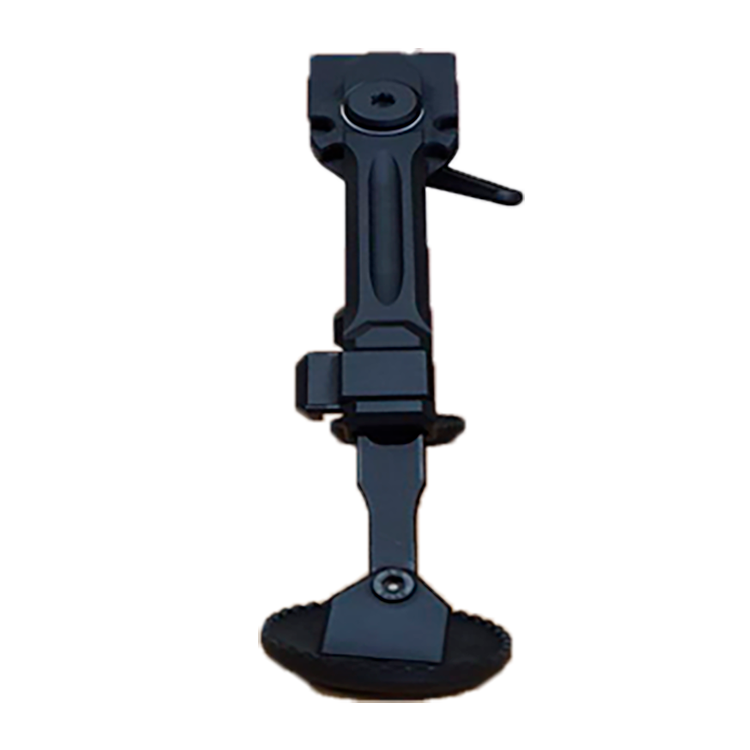
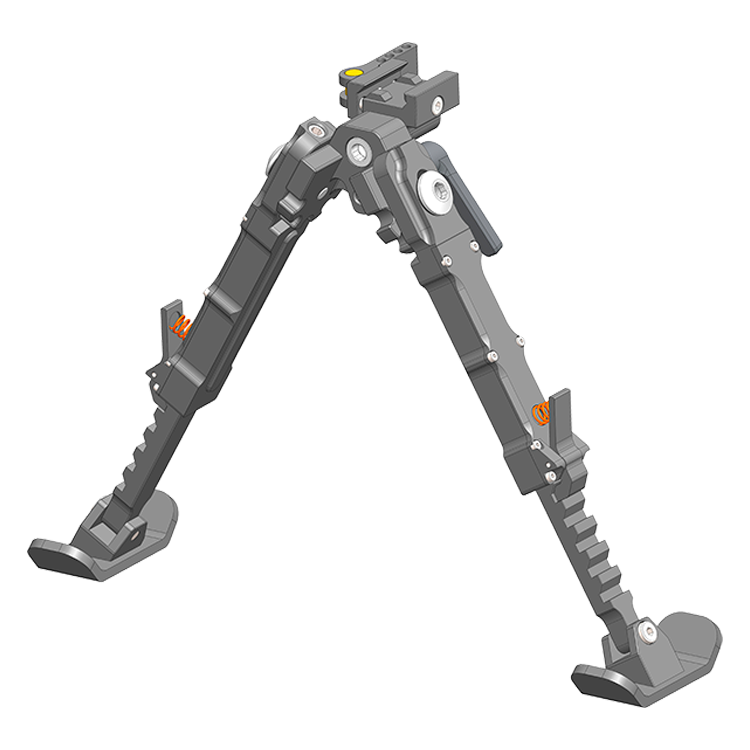
Updates

Changed region(s): [[0.0307, 0.0613, 0.9813, 0.9507]]

diff --git a/bp-1.html b/bp-1.html
@@ -228,7 +228,7 @@
 			<div class="container card__container">
 				<div class="card-top">
 					<h1 class="card__title">Сошки швидкоз'ємні</h1>
-					<p class="card__article">Артикул: bp-1</p>
+					<p class="card__article">Артикул: BD-01-GN-QD</p>
 				</div>
 				<div class="card__gallery">
 					<div class="swiper mySwiper2">
@@ -281,31 +281,52 @@
 							<tbody>
 								<tr>
 									<th>Вага:</th>
-									<td>626 г</td>
+									<td>580 г</td>
 								</tr>
 								<tr>
-									<th>Розміри:</th>
-									<td>127х190 см</td>
+									<th>Розміри (ВхШ) мм:</th>
+									<td>170 х 240</td>
 								</tr>
 								<tr>
 									<th>Матеріал:</th>
-									<td>Сплав 7075</td>
+									<td>Сплав 6061 - Т6</td>
 								</tr>
 
 								<tr>
 									<th>База кріплення:</th>
-									<td>Picatinny</td>
+									<td>Picatinny, Weaver</td>
 								</tr>
 								<tr>
-									<th>Підпружинені ніжки:</th>
-									<td>Так </td>
+									<th>Мінімальна висота
+										(ніжки під кутом 90°), мм:</th>
+									<td>170</td>
 								</tr>
 								<tr>
-									<th>Шарнірна база:</th>
-									<td>Так </td>
+									<th>Максимальна висота
+										(ніжки під кутом 90°), мм:</th>
+									<td>205</td>
+								</tr>
+								<tr>
+									<th>Регулювання ніжок піж кутами, град: </th>
+									<td>0 - 45 - 90 - 135</td>
+								</tr>
+								<tr>
+									<th>Підпружинені ніжки: </th>
+									<td>+</td>
+								</tr>
+								<tr>
+									<th>Фіксація на зброї:</th>
+									<td>+</td>
 								</tr>
 
 								<tr>
+									<th>Швидкоз'ємне
+										Покриття:</th>
+									<td>Тверде</td>
+								</tr>
+
+								<tr>
+
 									<th>Країна виробник:</th>
 									<td>
 										Україна</td>

diff --git a/metal-processing.html b/metal-processing.html
@@ -258,8 +258,8 @@
 			<div class="container">
 				<div class="gallery">
 					<div class="gallery__card">
-						<a data-fslightbox="gallery" href="img/mp-gallery/mp-gallery-1.jpg">
-							<img src="img/mp-gallery/mp-gallery-1.jpg" alt="detail" />
+						<a data-fslightbox="gallery" href="img/mp-gallery/mp-gallery-25.jpg">
+							<img src="img/mp-gallery/mp-gallery-25.jpg" alt="detail" />
 						</a>
 					</div>
 					<div class="gallery__card">
@@ -278,8 +278,8 @@
 						</a>
 					</div>
 					<div class="gallery__card">
-						<a data-fslightbox="gallery" href="img/mp-gallery/mp-gallery-5.jpg">
-							<img src="img/mp-gallery/mp-gallery-5.jpg" alt="detail" />
+						<a data-fslightbox="gallery" href="img/mp-gallery/mp-gallery-22.jpg">
+							<img src="img/mp-gallery/mp-gallery-22.jpg" alt="detail" />
 						</a>
 					</div>
 					<div class="gallery__card">
@@ -304,8 +304,8 @@
 						</a>
 					</div>
 					<div class="gallery__card">
-						<a data-fslightbox="gallery" href="img/mp-gallery/mp-gallery-12.jpg">
-							<img src="img/mp-gallery/mp-gallery-12.jpg" alt="detail" />
+						<a data-fslightbox="gallery" href="img/mp-gallery/mp-gallery-23.jpg">
+							<img src="img/mp-gallery/mp-gallery-23.jpg" alt="detail" />
 						</a>
 					</div>
 					<div class="gallery__card">
@@ -314,8 +314,8 @@
 						</a>
 					</div>
 					<div class="gallery__card">
-						<a data-fslightbox="gallery" href="img/mp-gallery/mp-gallery-14.jpg">
-							<img src="img/mp-gallery/mp-gallery-14.jpg" alt="detail" />
+						<a data-fslightbox="gallery" href="img/mp-gallery/mp-gallery-24.jpg">
+							<img src="img/mp-gallery/mp-gallery-24.jpg" alt="detail" />
 						</a>
 					</div>
 					<div class="gallery__card">

diff --git a/drawing.html b/drawing.html
@@ -261,6 +261,11 @@
 							<img src="img/draw-gallery/draw-gallery-1.jpg" alt="draw" />
 						</a>
 					</div>
+					<div class="gallery__card">
+						<a data-fslightbox="gallery" href="img/draw-gallery/draw-gallery-2.jpg">
+							<img src="img/draw-gallery/draw-gallery-2.jpg" alt="draw" />
+						</a>
+					</div>
 				</div>
 
 			</div>
